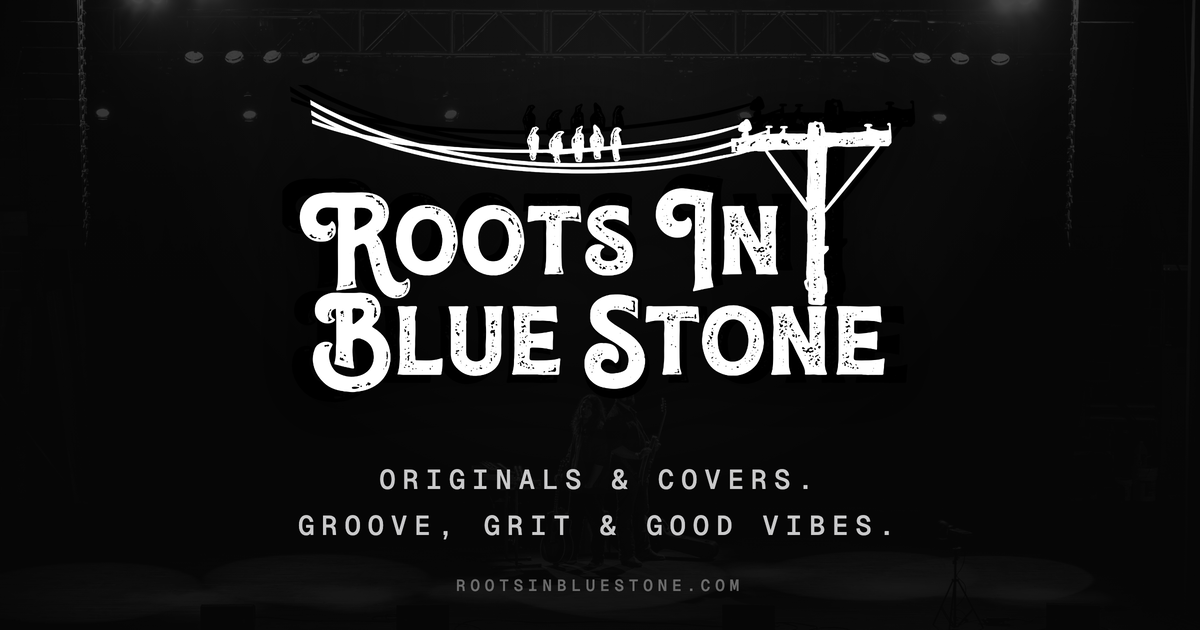
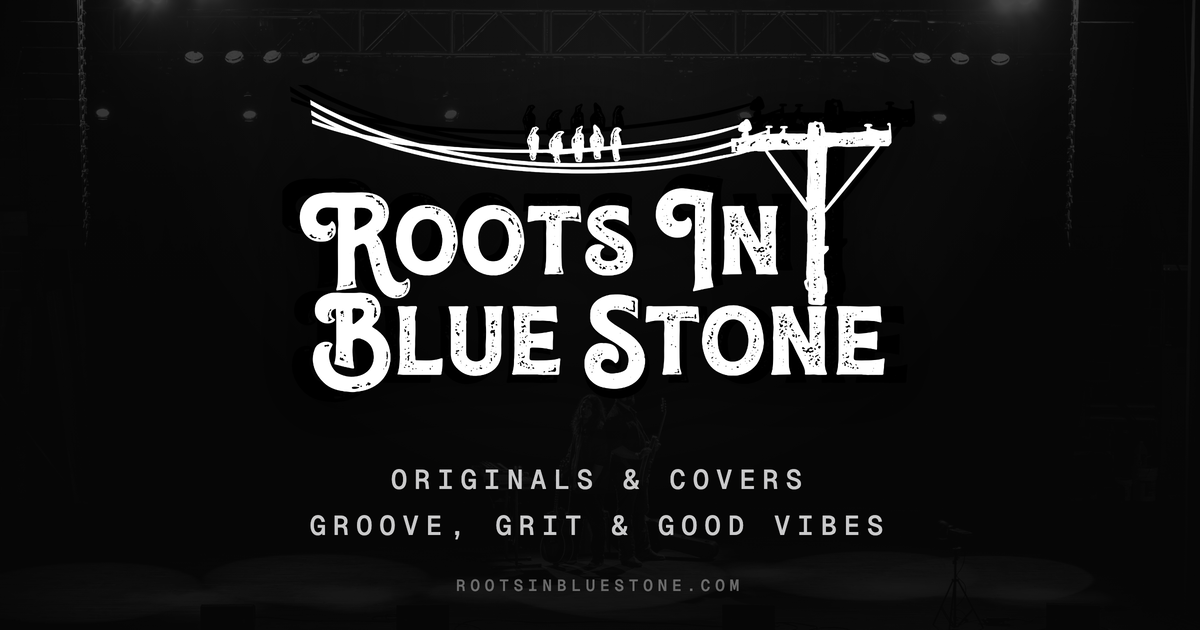
Slogan: remove periods (hero, footer, meta, OG image)

Changed region(s): [[0.3083, 0.7238, 0.6783, 0.7841], [0.4008, 0.8143, 0.74, 0.8746], [0.2467, 0.8143, 0.37, 0.8746]]

diff --git a/lib/content.ts b/lib/content.ts
@@ -6,8 +6,8 @@
 export const SITE = {
   name: "Roots in Blue Stone",
   short: "RIBS",
-  tagline: "Originals & Covers. Groove, Grit & Good Vibes.",
-  taglineLines: ["Originals & Covers.", "Groove, Grit & Good Vibes."],
+  tagline: "Originals & Covers · Groove, Grit & Good Vibes",
+  taglineLines: ["Originals & Covers", "Groove, Grit & Good Vibes"],
   // Verbatim opening line of their bio.
   description:
     "Roots in Blue Stone is a Pennsylvania-born band blending reggae, rock, blues, and soul into a sound that feels both familiar and fresh.",
